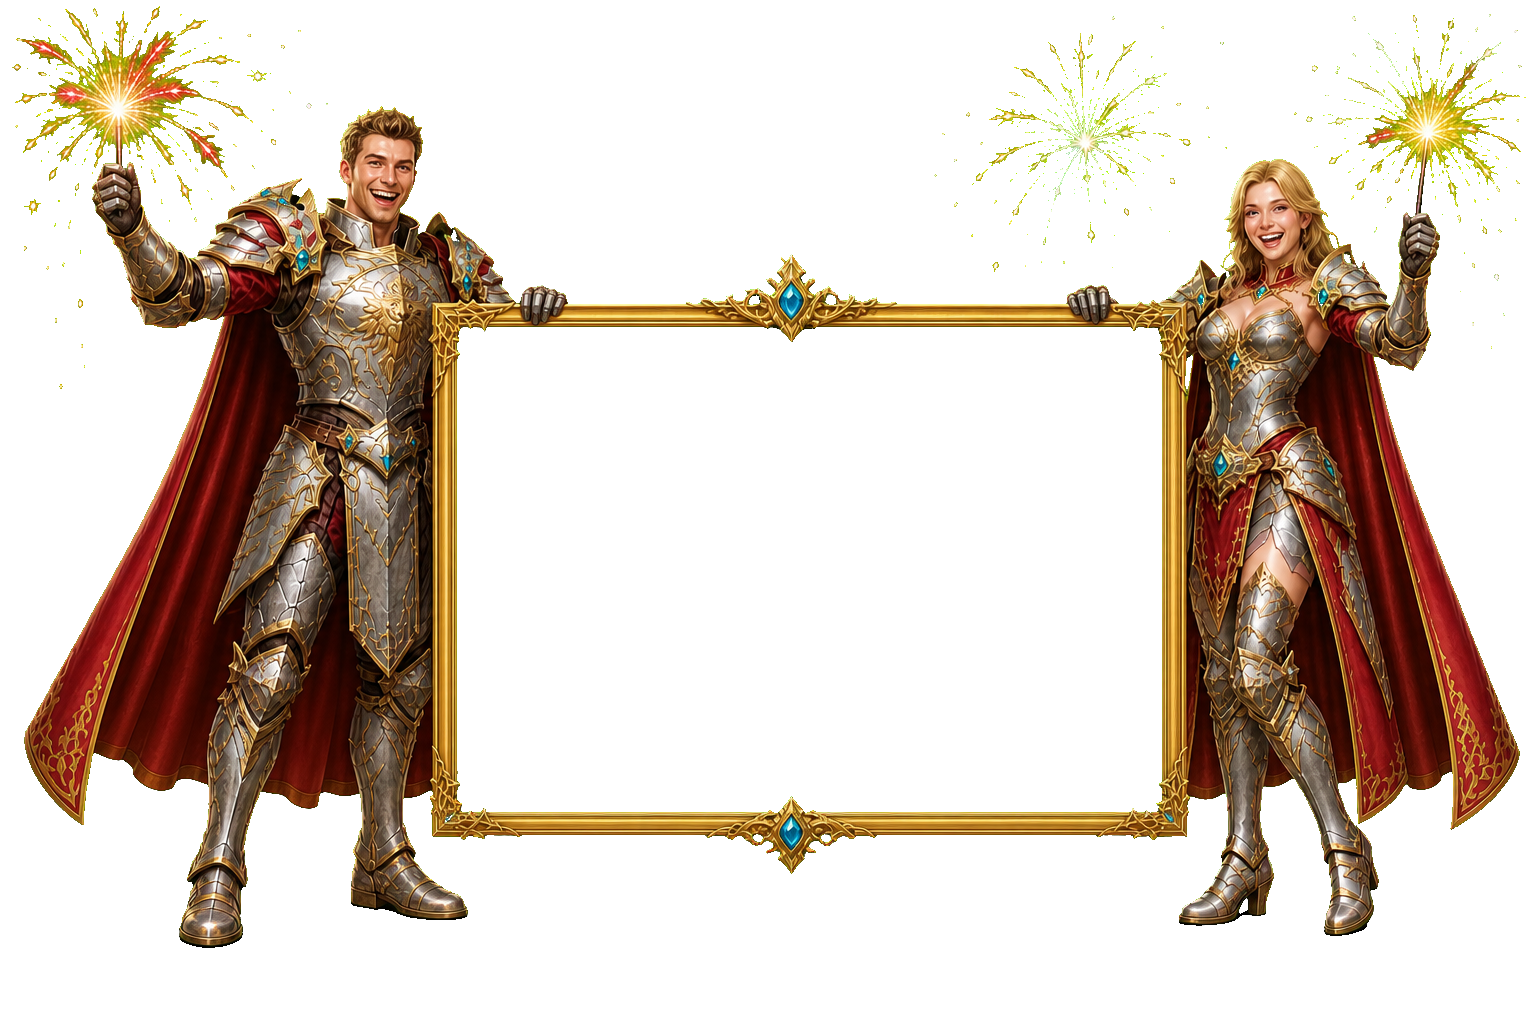
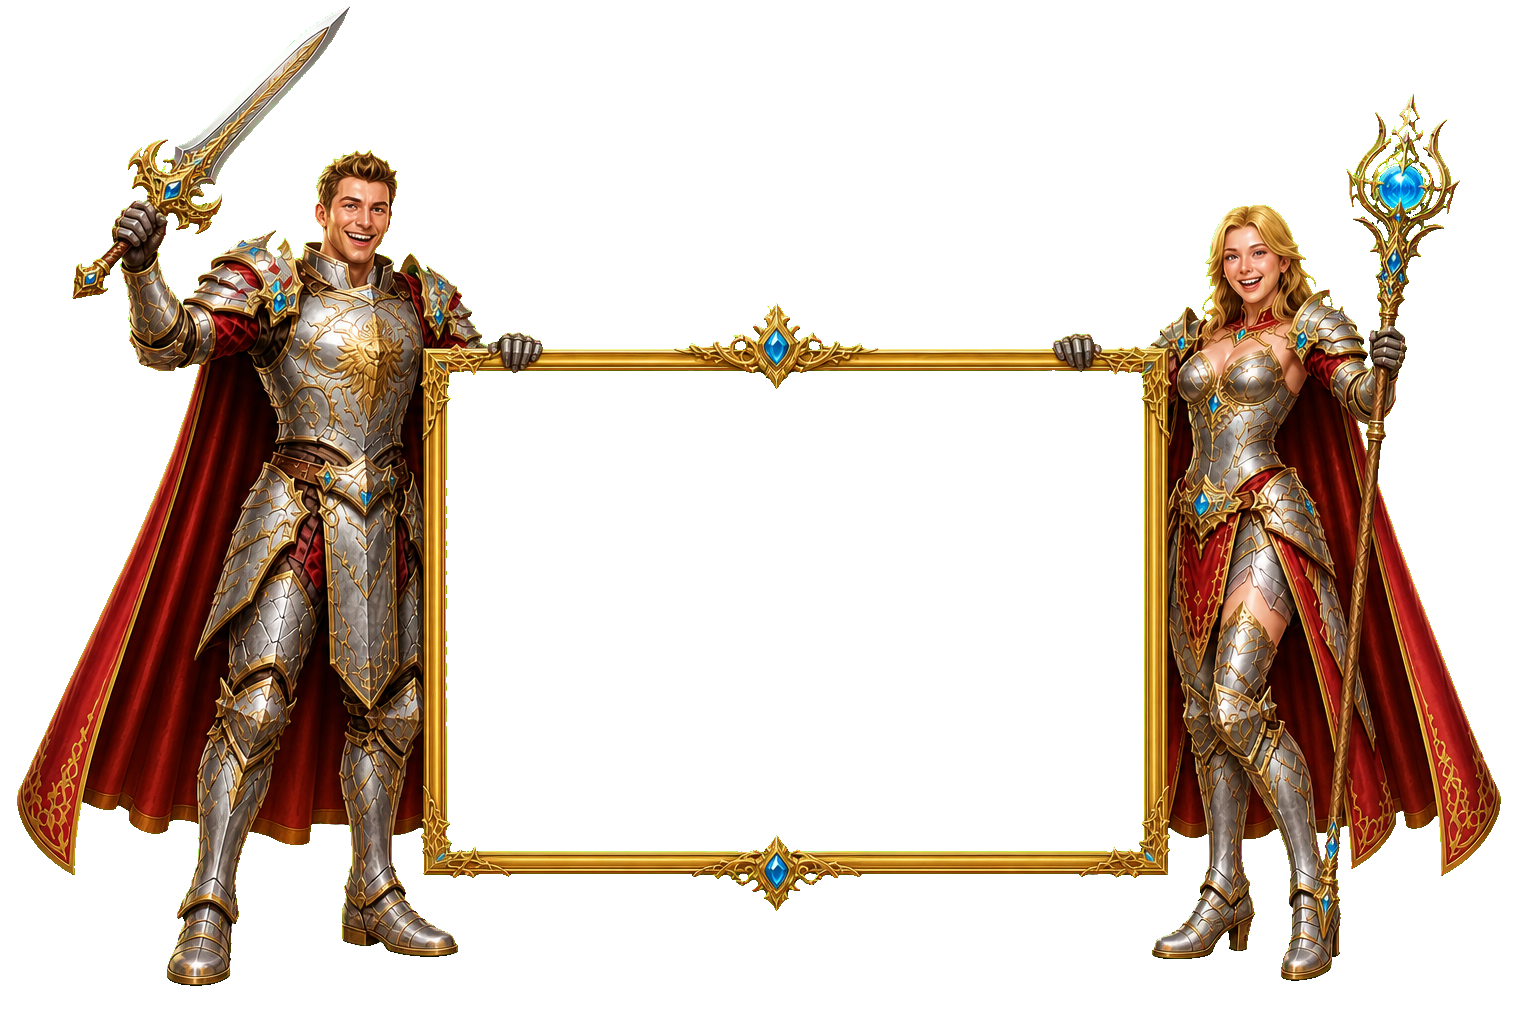
fix: update 'Coming Soon' page background image version and adjust CSS for improved layout; modify tests to reflect new image source and ensure proper rendering

diff --git a/frontend/src/pages/coming-soon.css b/frontend/src/pages/coming-soon.css
@@ -177,15 +177,15 @@
 
 .launch-gate__tableau.is-held {
   /* Medidas do furo interno da moldura em dynasty-couple-hold.png (1536×1024). */
-  --frame-left: 29.753%;
-  --frame-top: 31.836%;
-  --frame-width: 45.898%;
-  --frame-height: 47.461%;
-  /* Cabe no viewport; prioriza altura para não gerar rolagem na página. */
+  --frame-left: 29.102%;
+  --frame-top: 35.938%;
+  --frame-width: 45.378%;
+  --frame-height: 47.266%;
+  /* Cabe no viewport mantendo aspect da arte (evita distorcer o encaixe da moldura). */
   width: min(100vw, calc(100dvh * 1536 / 1024));
   max-width: 100%;
-  max-height: 100dvh;
   aspect-ratio: 1536 / 1024;
+  height: auto;
   padding-top: 0;
   place-items: stretch;
 }
@@ -1023,22 +1023,59 @@
     padding: 36px 18px;
   }
 
-  .launch-gate__panel {
-    gap: 16px;
-    padding: 24px 18px;
+  .launch-gate.is-open .launch-gate__stage {
+    width: min(100%, 980px);
+    height: 100%;
+    padding: 28px 16px;
+  }
+
+  .launch-gate__heroes {
+    display: none;
   }
 
   .launch-gate__tableau.is-held {
-    width: min(100vw, calc(100dvh * 1536 / 1024));
+    width: min(100%, 44rem);
+    aspect-ratio: auto;
+    height: auto;
+    place-items: center;
   }
 
   .launch-gate__tableau.is-held .launch-gate__panel {
-    padding: 14px 12px;
-    gap: 12px;
+    position: relative;
+    left: auto;
+    top: auto;
+    width: min(100%, 44rem);
+    height: auto;
+    max-width: 100%;
+    margin: 0;
+    padding: 24px 18px;
+    gap: 16px;
+    border-color: rgba(255, 214, 140, 0.42);
+    border-radius: 8px;
   }
 
-  .launch-gate.is-open .launch-gate__stage {
-    padding: 0;
+  .launch-gate__tableau.is-held .launch-gate__title {
+    max-width: 14ch;
+    font-size: clamp(2.2rem, 10vw, 3.4rem);
+  }
+
+  .launch-gate__tableau.is-held .launch-gate__subtitle {
+    max-width: 34ch;
+    font-size: clamp(0.95rem, 3.4vw, 1.1rem);
+  }
+
+  .launch-gate__tableau.is-held .launch-gate__finale {
+    min-height: 72px;
+  }
+
+  .launch-gate.is-open .launch-gate__panel-corner,
+  .launch-gate.is-open .launch-gate__panel-rim {
+    opacity: 1;
+  }
+
+  .launch-gate__panel {
+    gap: 16px;
+    padding: 24px 18px;
   }
 
   .launch-gate__countdown {

diff --git a/frontend/src/pages/ComingSoonPage.test.tsx b/frontend/src/pages/ComingSoonPage.test.tsx
@@ -113,7 +113,7 @@ it('anuncia o fim da contagem com efeitos de abertura', () => {
   expect(container.querySelector('.launch-gate__fireworks')).not.toBeNull()
   expect(container.querySelector('.launch-gate__heroes-img')).toHaveAttribute(
     'src',
-    '/theme/default/images/bg/dynasty-couple-hold.png?v=4',
+    '/theme/default/images/bg/dynasty-couple-hold.png?v=6',
   )
   expect(container.querySelector('.launch-gate__tableau.is-held')).not.toBeNull()
   expect(container.querySelectorAll('.launch-gate__shell').length).toBeGreaterThan(3)

diff --git a/frontend/src/pages/ComingSoonPage.tsx b/frontend/src/pages/ComingSoonPage.tsx
@@ -281,7 +281,7 @@ export function ComingSoonPage({ info }: { info: ApiServerInfo }) {
             <div className="launch-gate__heroes" aria-hidden="true">
               <img
                 className="launch-gate__heroes-img"
-                src={`${themeImage('bg/dynasty-couple-hold.png')}?v=4`}
+                src={`${themeImage('bg/dynasty-couple-hold.png')}?v=6`}
                 alt=""
               />
             </div>

diff --git a/docs/funcionalidades/coming-soon.md b/docs/funcionalidades/coming-soon.md
@@ -33,9 +33,9 @@ No admin, com Coming Soon ativo, use **Ver página de lançamento** para abrir `
 Quando a data chega, a contagem some e a página entra no estado de abertura: troca o fundo
 para a arte de comemoração com fogos (`bg/coming-soon-open.png`), fogos de artifício animados
 em loop, casal humano em Dynasty (`bg/dynasty-couple-hold.png`) segurando uma moldura dourada onde o
-painel HTML encaixa com precisão (coordenadas `--frame-*`), anel luminoso, kicker “Servidor
-aberto”, mensagem “O momento chegou” e ênfase no botão Entrar. O Coming Soon continua ativo
-até a equipe desligar o modo no painel.
+painel HTML encaixa com precisão (coordenadas `--frame-*`; oculto no mobile, só o painel),
+anel luminoso, kicker “Servidor aberto”, mensagem “O momento chegou” e ênfase no botão Entrar.
+O Coming Soon continua ativo até a equipe desligar o modo no painel.
 
 Contrato público em `GET /api/v1/public/server/info/`:
 
